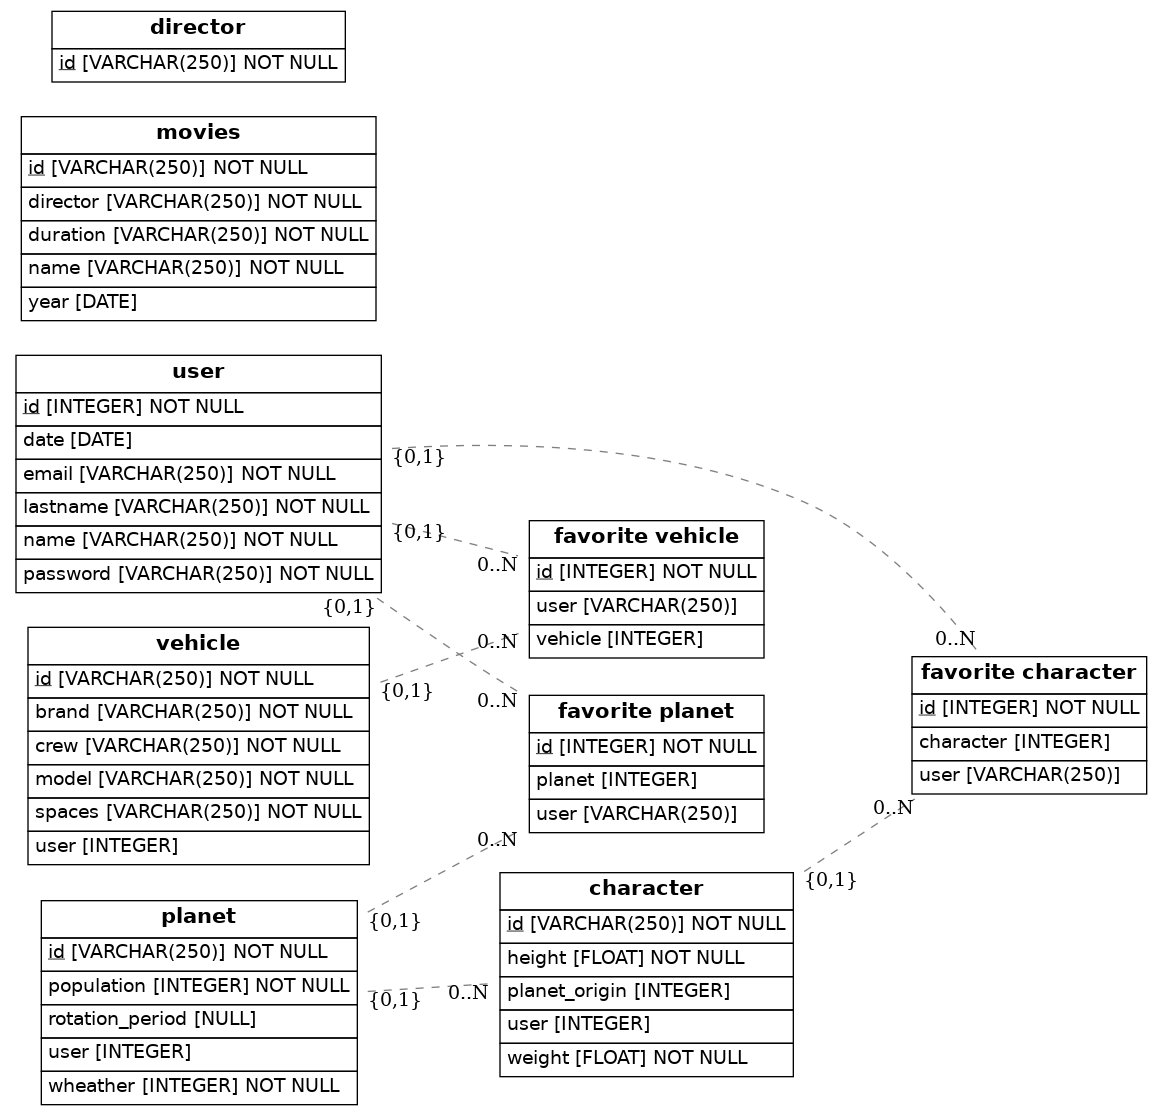
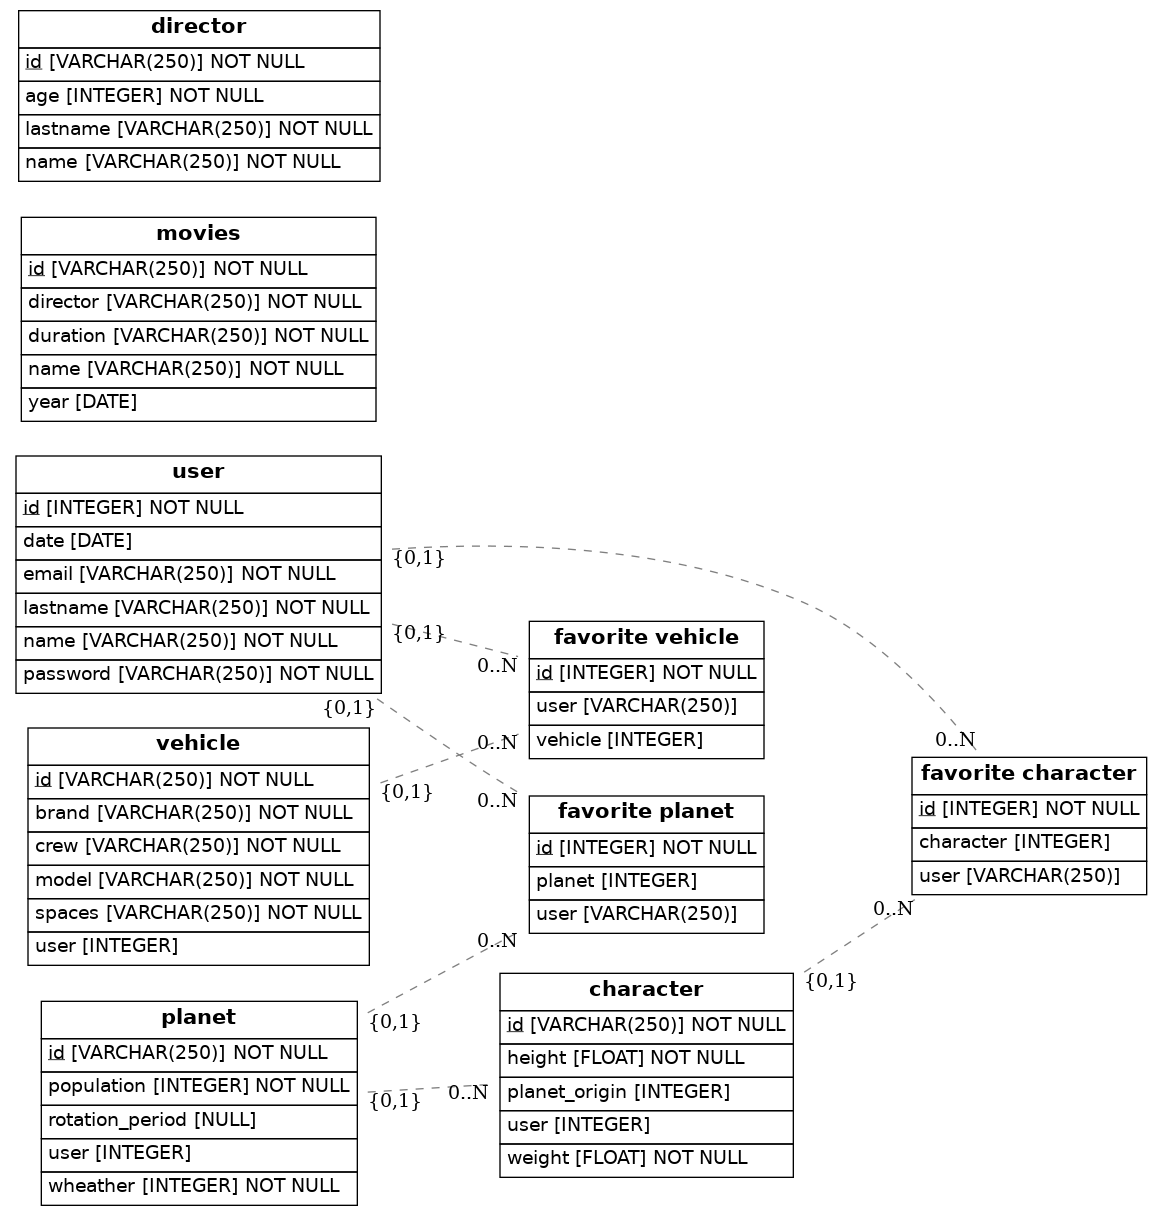
Director

Changed region(s): [[0.0, 0.0, 0.7429, 1.0], [0.7429, 0.5489, 0.9905, 0.7623], [0.3405, 0.3964, 0.3715, 0.4269]]

diff --git a/src/models.py b/src/models.py
@@ -68,6 +68,9 @@ class Movies(Base):
 class Director(Base):
     __tablename__ = 'director'
     id = Column(String(250), primary_key=True)
+    age = Column(Integer, nullable=False)
+    lastname = Column(String(250), nullable=False)
+    name = Column(String(250), nullable=False)
 
 class FavoritePlanet(Base):
     __tablename__ = 'favorite planet'
